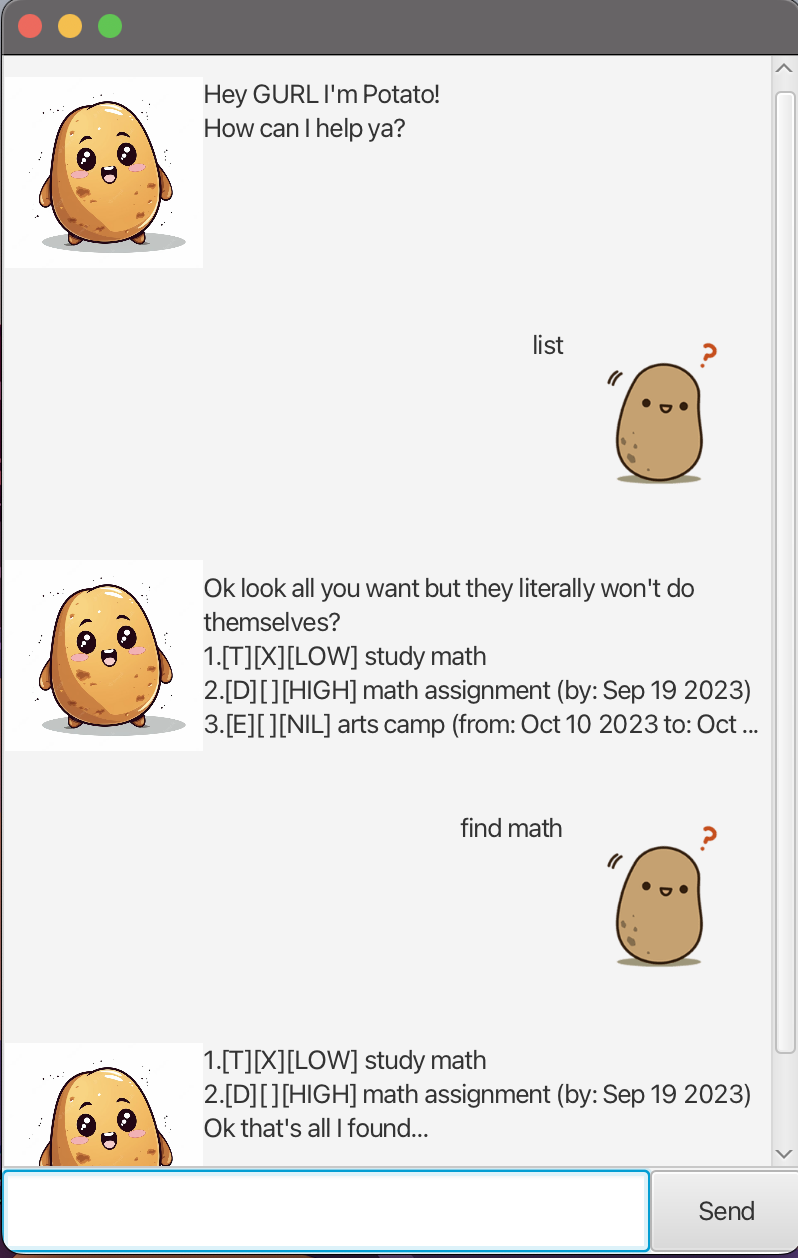
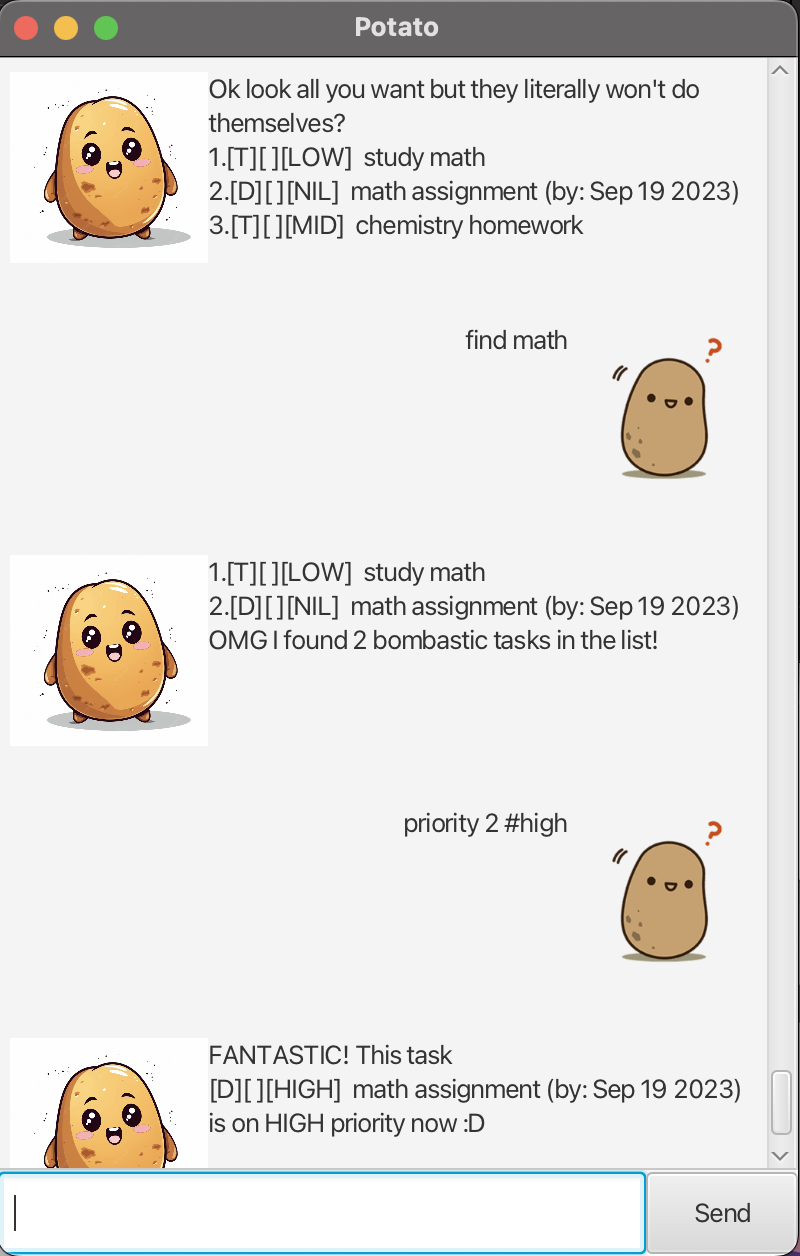
Fix minor bugs

diff --git a/src/main/java/potato/task/Task.java b/src/main/java/potato/task/Task.java
@@ -31,22 +31,22 @@ public class Task {
      * @return A specific task object created from the input or null if the input is not recognized.
      */
     public static Task parse(String input) {
-        if (input.startsWith("todo ")) {
+        if (input.startsWith("todo")) {
             try {
-                return Todo.parseTodo(input.substring(5), "0");
+                return Todo.parseTodo(input.substring(4));
             } catch (PotatoException e) {
                 throw new PotatoException(e.getMessage());
             }
 
         } else if (input.startsWith("deadline")) {
             try {
-                return Deadline.parseDeadline(input.substring(9));
+                return Deadline.parseDeadline(input.substring(8));
             } catch (PotatoException e) {
                 throw new PotatoException(e.getMessage());
             }
 
         } else if (input.startsWith("event")) {
-            return Event.parseEvent(input.substring(6));
+            return Event.parseEvent(input.substring(5));
         } else {
             throw new PotatoException("Literally what are you talking about...");
         }

diff --git a/src/main/java/potato/task/Todo.java b/src/main/java/potato/task/Todo.java
@@ -23,17 +23,16 @@ public class Todo extends Task {
      * Parses a user input string to create a Todo object.
      *
      * @param input The user input string representing the todo task.
-     * @param mark  The marker indicating the completion status (e.g., "1" for completed, "0" for incomplete).
      * @return A Todo object created from the input.
      * @throws PotatoException If the input is empty or invalid.
      */
-    public static Todo parseTodo(String input, String mark) {
+    public static Todo parseTodo(String input) {
 
-        if (input.length() < 1) {
+        if (input.length() < 2) {
             throw new PotatoException("Bruh you wanna do air or something?\n");
         } else {
-            assert input.length() > 1 : "input length should be > 1";
-            return new Todo(input, (mark.equals("1")), "NIL");
+            assert input.length() > 2 : "input length should be > 1";
+            return new Todo(input, false, "NIL");
         }
     }
 

diff --git a/src/main/java/potato/task/Event.java b/src/main/java/potato/task/Event.java
@@ -40,14 +40,14 @@ public class Event extends Task {
     public static Event parseEvent(String input) {
         int indexFrom = input.indexOf("/from");
         int indexTo = input.indexOf("/to");
-        if (input.length() < 1) {
+        if (input.length() < 2) {
             throw new PotatoException("Bruh you wanna do air or something?");
         } else if (indexFrom < 0) {
             throw new PotatoException("Looks like your event don't need to start?");
         } else if (indexTo < 0) {
             throw new PotatoException("Looks like your event goes on forever?");
         } else {
-            assert input.length() > 1 : "input length should be > 1";
+            assert input.length() > 2 : "input length should be > 1";
             return new Event(input.substring(0, indexFrom - 1),
                     input.substring(indexFrom + 6, indexTo - 1),
                     input.substring(indexTo + 4), false, "NIL");

diff --git a/src/main/java/potato/task/Deadline.java b/src/main/java/potato/task/Deadline.java
@@ -34,12 +34,12 @@ public class Deadline extends Task {
      */
     public static Deadline parseDeadline(String input) {
         int indexBy = input.indexOf("/by");
-        if (input.length() < 1) {
+        if (input.length() < 2) {
             throw new PotatoException("Bruh you wanna do air or something?");
         } else if (indexBy < 0) {
             throw new PotatoException("WHEN'S THE DUE DATE???");
         } else {
-            assert input.length() > 1 : "input length should be > 1";
+            assert input.length() > 2 : "input length should be > 1";
             return new Deadline(input.substring(0, indexBy - 1),
                     input.substring(indexBy + 4), false, "NIL");
         }

diff --git a/src/main/java/potato/MainWindow.java b/src/main/java/potato/MainWindow.java
@@ -33,13 +33,13 @@ public class MainWindow extends AnchorPane {
     @FXML
     public void initialize() {
         scrollPane.vvalueProperty().bind(dialogContainer.heightProperty());
+        dialogContainer.getChildren().add(
+                DialogBox.getPotatoDialog("Hey GURL I'm Potato!\n" + "How can I help ya?", potatoImage)
+        );
     }
 
     public void setPotato(Potato p) {
         potato = p;
-        dialogContainer.getChildren().add(
-                DialogBox.getPotatoDialog("Hey GURL I'm Potato!\n" + "How can I help ya?", potatoImage)
-        );
     }
 
     /**

diff --git a/src/main/java/potato/Main.java b/src/main/java/potato/Main.java
@@ -22,6 +22,7 @@ public class Main extends Application {
             AnchorPane ap = fxmlLoader.load();
             Scene scene = new Scene(ap);
             stage.setScene(scene);
+            stage.setTitle("Potato");
             fxmlLoader.<MainWindow>getController().setPotato(potato);
             stage.show();
         } catch (IOException e) {
